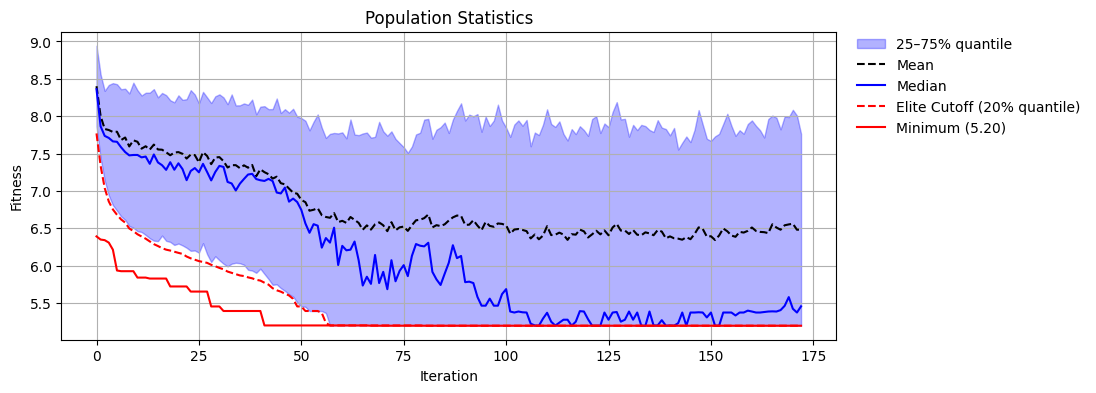
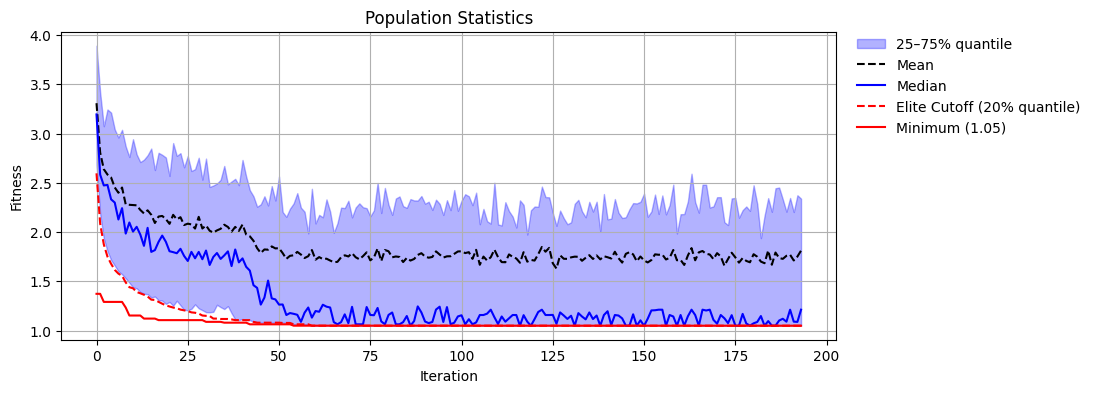
Initial commit

diff --git a/ind_example.py b/ind_example.py
@@ -8,7 +8,7 @@ def main():
  
     # Define instance
     instance_path = "./Instances_3/4.pkl"
-    instance_path = "./Instances_Mexico/15.pkl"
+    instance_path = "./Instances_Mexico/05.pkl"
     plots_path = "./Example_plots/"
     os.makedirs(plots_path, exist_ok=True)
     num_regions = 10
@@ -27,7 +27,7 @@ def main():
     
     # BRKGA parameters
     config = {
-        "population_size": 50,
+        "population_size": 200,
         "elite_fraction": 0.2,
         "mutant_fraction": 0.2,
         "crossover_rate": 0.7,
